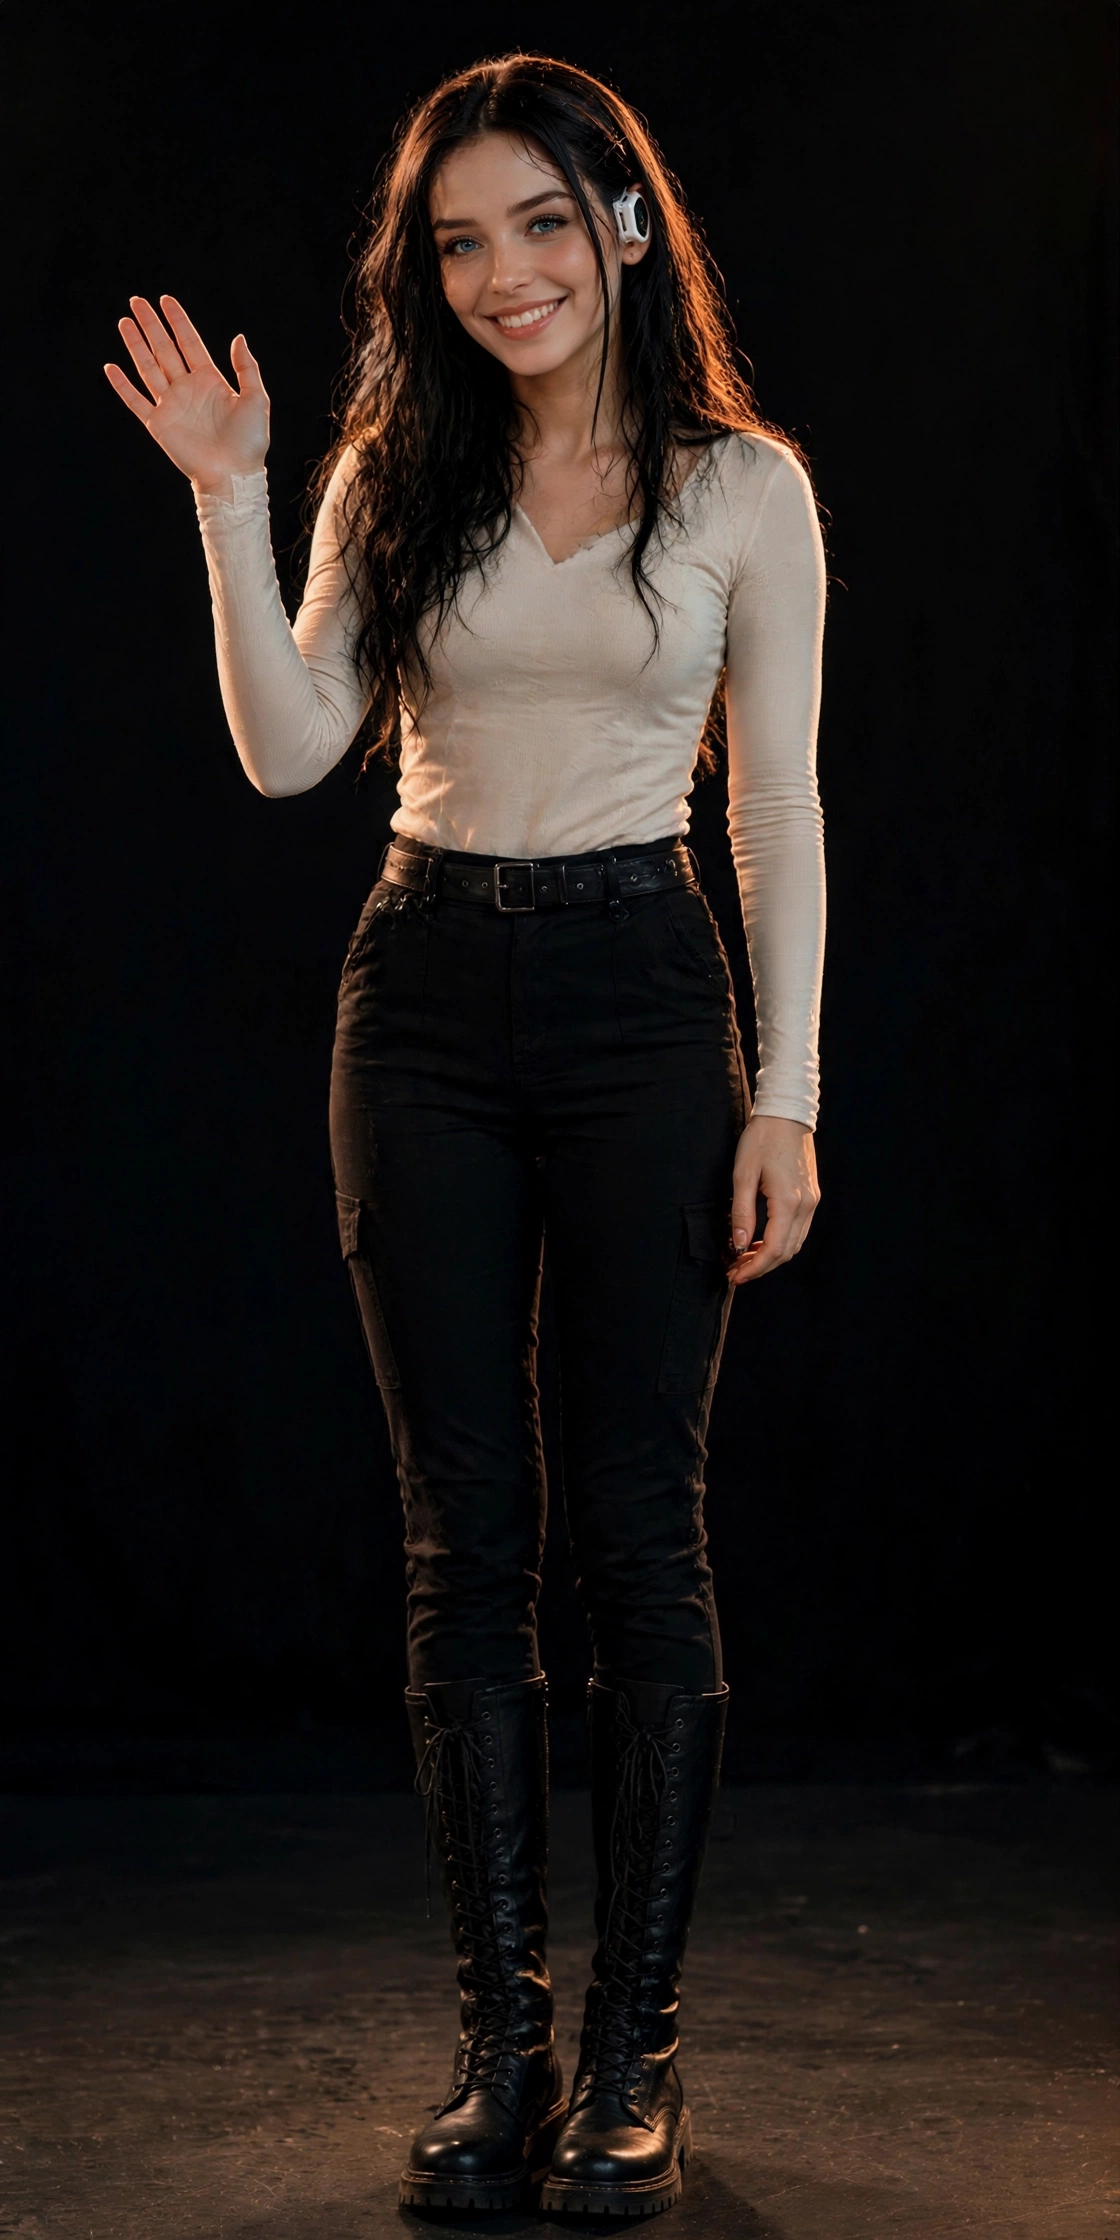
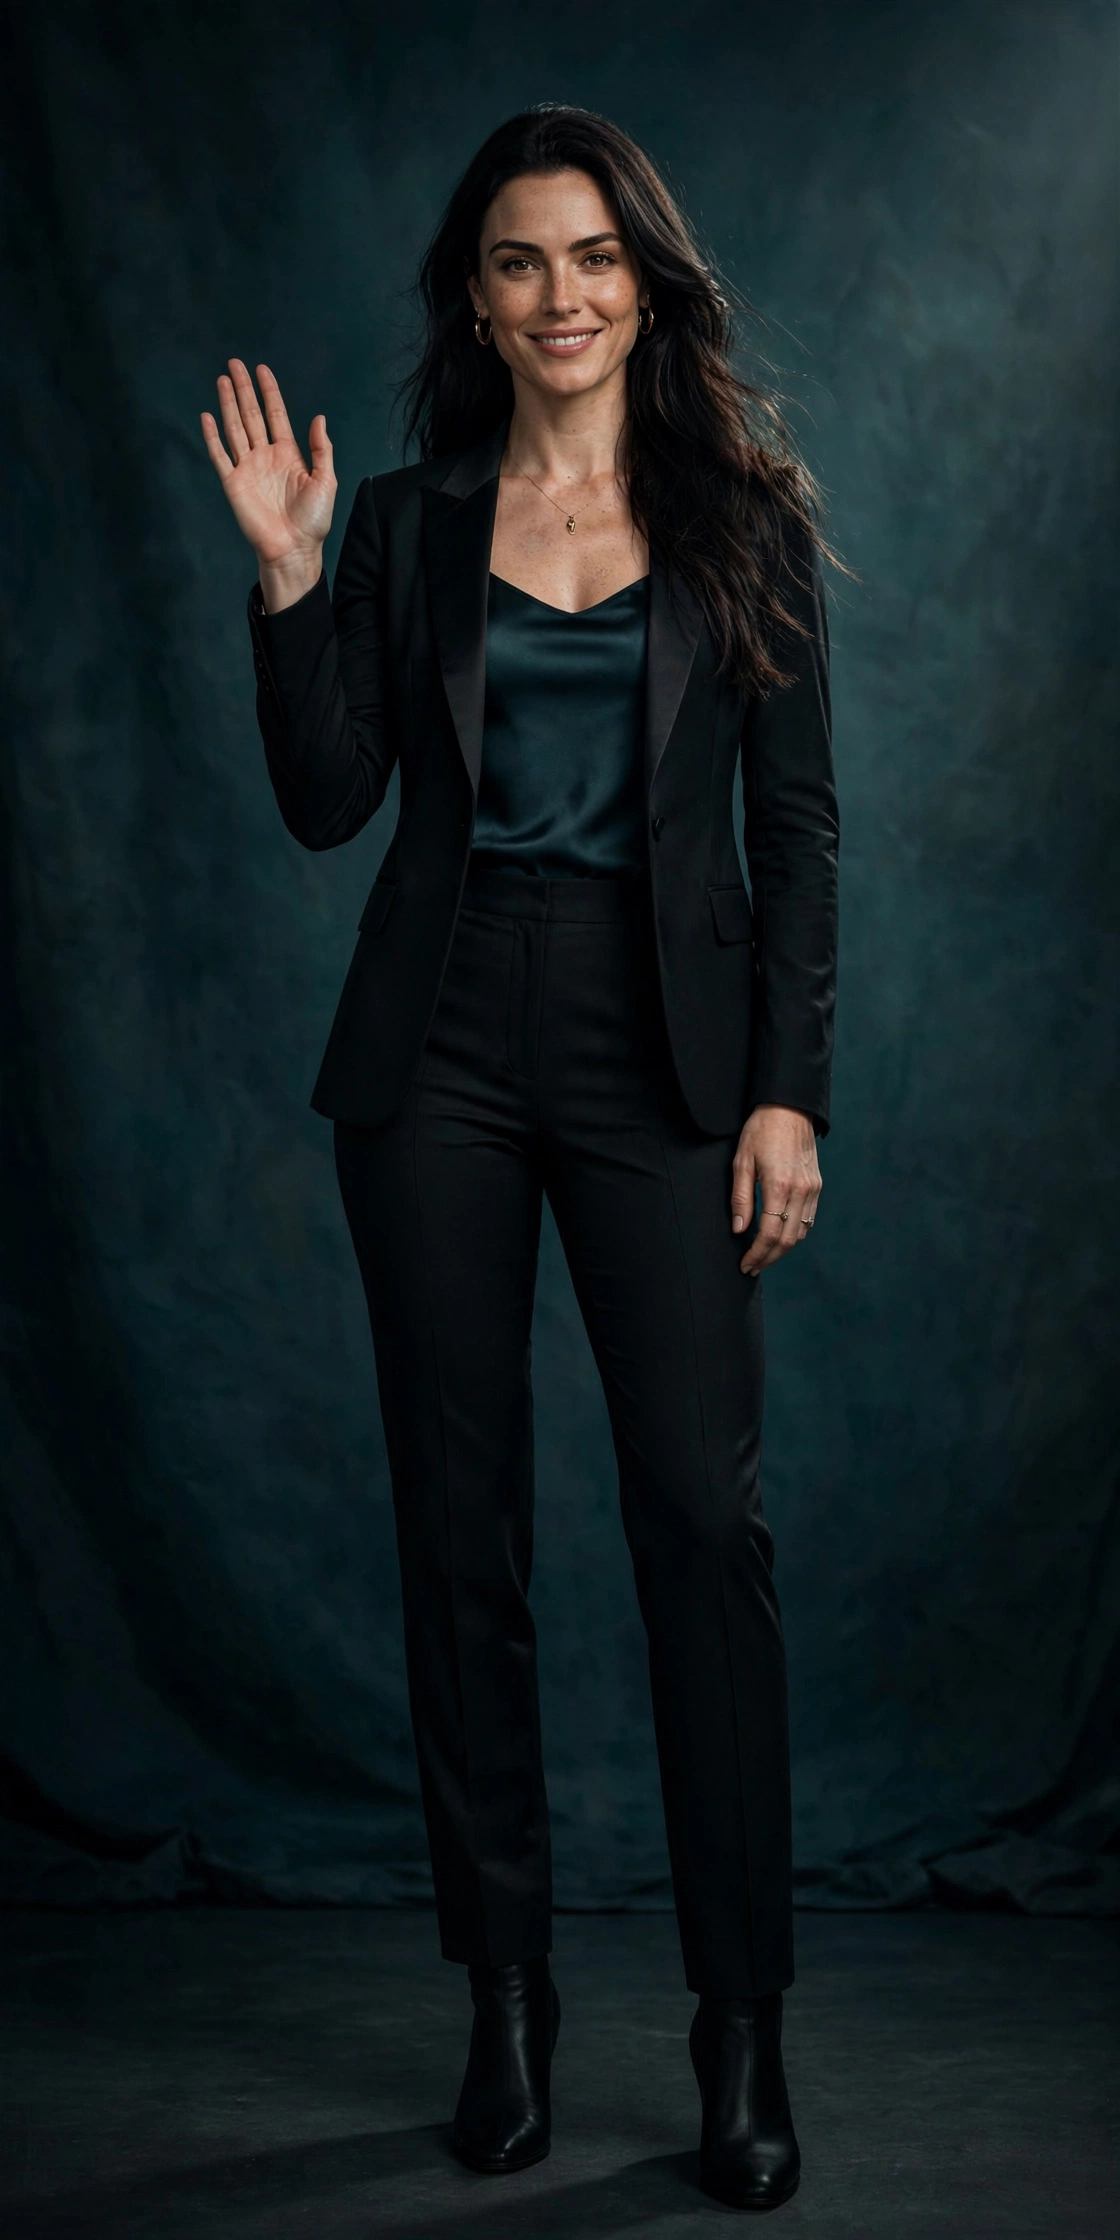
hero: new confident Mia + sleek speech bubble

diff --git a/index.html b/index.html
@@ -77,9 +77,14 @@ nav{position:fixed;top:0;left:0;right:0;z-index:50;backdrop-filter:blur(14px);-w
   background:linear-gradient(100deg,rgba(5,7,13,.97) 22%,rgba(5,7,13,.72) 45%,rgba(5,7,13,.55) 78%),
              linear-gradient(0deg,var(--bg) 2%,transparent 30%)}
 .hero-grid{display:grid;grid-template-columns:1.15fr .85fr;gap:40px;align-items:center;width:100%;position:relative;z-index:2}
-.hero-mia .hero-hi{position:absolute;top:0;left:0;right:0;text-align:center;z-index:2;pointer-events:none}
-.hero-mia .hero-hi{display:inline-block;font-size:14px;font-weight:700;letter-spacing:.5px;color:#062b27;background:linear-gradient(135deg,#7df9e2,#34e0c0);
-  padding:10px 18px;border-radius:18px 18px 18px 4px;box-shadow:0 0 26px rgba(94,234,212,.45);animation:floaty 5s ease-in-out infinite}
+.hero-mia .hero-hi{position:absolute;top:1%;left:0;right:0;margin:0 auto;width:max-content;z-index:2;pointer-events:none;white-space:nowrap;
+  font-size:15px;font-weight:800;letter-spacing:1px;color:#f2fffd;text-transform:uppercase;
+  background:linear-gradient(160deg,rgba(10,22,34,.94),rgba(6,14,24,.9));
+  border:1px solid rgba(94,234,212,.6);padding:12px 22px;border-radius:16px;
+  box-shadow:0 0 32px rgba(94,234,212,.28),0 12px 32px rgba(0,0,0,.55),inset 0 1px 0 rgba(255,255,255,.08);
+  animation:floaty 5s ease-in-out infinite}
+.hero-mia .hero-hi::after{content:"";position:absolute;left:50%;bottom:-7px;width:13px;height:13px;margin-left:-7px;transform:rotate(45deg);
+  background:rgba(8,17,29,.94);border-right:1px solid rgba(94,234,212,.6);border-bottom:1px solid rgba(94,234,212,.6)}
 .hero-mia{position:absolute;right:4%;top:96px;bottom:auto;transform:none;height:calc(100svh - 116px);z-index:1;pointer-events:none;opacity:.94;
   -webkit-mask-image:linear-gradient(100deg,transparent 2%,#000 24%),linear-gradient(0deg,#000 80%,transparent 99%);
   -webkit-mask-composite:source-in;mask-composite:intersect;
@@ -331,7 +336,7 @@ footer{border-top:1px solid var(--line);padding:44px 0 34px;color:var(--mut);fon
   .hero-mia{order:2}
   .hero-grid{grid-template-columns:1fr;text-align:center}
   .hero-mia{position:static;display:block;height:30svh;margin:14px auto 8px;opacity:1;z-index:auto;transform:none;text-align:center}
-  .hero-mia .hero-hi{position:static;display:inline-block;margin-bottom:6px;animation:none}
+  .hero-mia .hero-hi{position:relative;margin:0 auto 10px;animation:none;display:block}
   .hero-mia img{margin:0 auto;height:calc(100% - 42px)}
   .lede{margin-left:auto;margin-right:auto}
   .caps{margin-left:auto;margin-right:auto}
